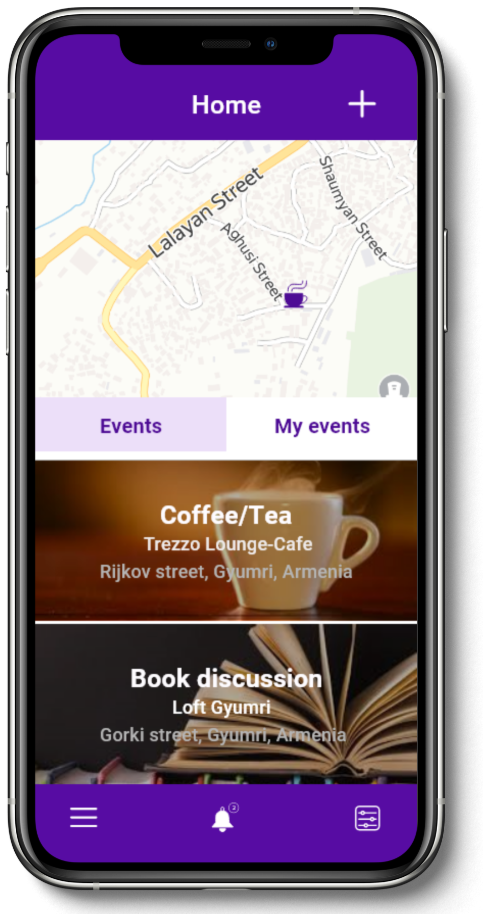
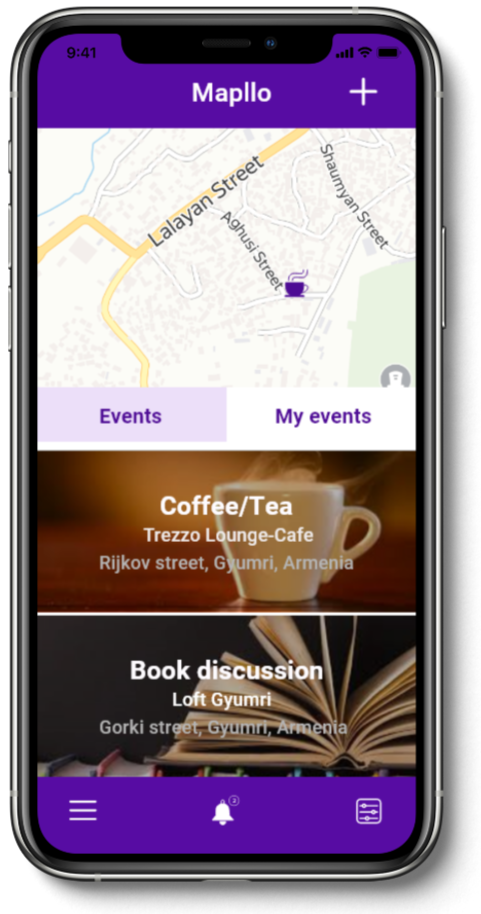
changed app name

Changed region(s): [[0.0, 0.0, 0.9356, 1.0], [0.9044, 0.337, 0.9356, 0.3676], [0.9044, 0.2451, 0.9356, 0.2757]]

diff --git a/index.html b/index.html
@@ -6,8 +6,8 @@
     <meta name="viewport" content="width=device-width, initial-scale=1.0">
     <meta http-equiv="X-UA-Compatible" content="IE=edge">
 	<meta name="description" content="mobile aplication">
-	<meta name="keywords" content="mobile aplication, mapplo">
-    <title>MapPlo - Mobile Aplication</title>
+	<meta name="keywords" content="mobile aplication, mapllo">
+    <title>MapLlo - Mobile Aplication</title>
     <link rel="stylesheet" href="./css/style.css">
     <link rel="stylesheet" href="./css/media.css">
     <link rel="stylesheet" href="./libs/fontawesome-free-5.13.1-web/css/all.css">
@@ -25,7 +25,7 @@
                     <img src="./img/Screenshot_2020.png" alt="" class="mobile">
                 </div>
                 <div class="col-lg-7 col-sm-12 col-12">
-                    <h1>MapPlo</h1>
+                    <h1>Mapllo</h1>
                     <div class="heder-text">
                         <h2>Your project is on us</h2>
                         <p>Lorem ipsum dolor, sit amet consectetur adipisicing elit. Asperiores, sunt. Facere,
